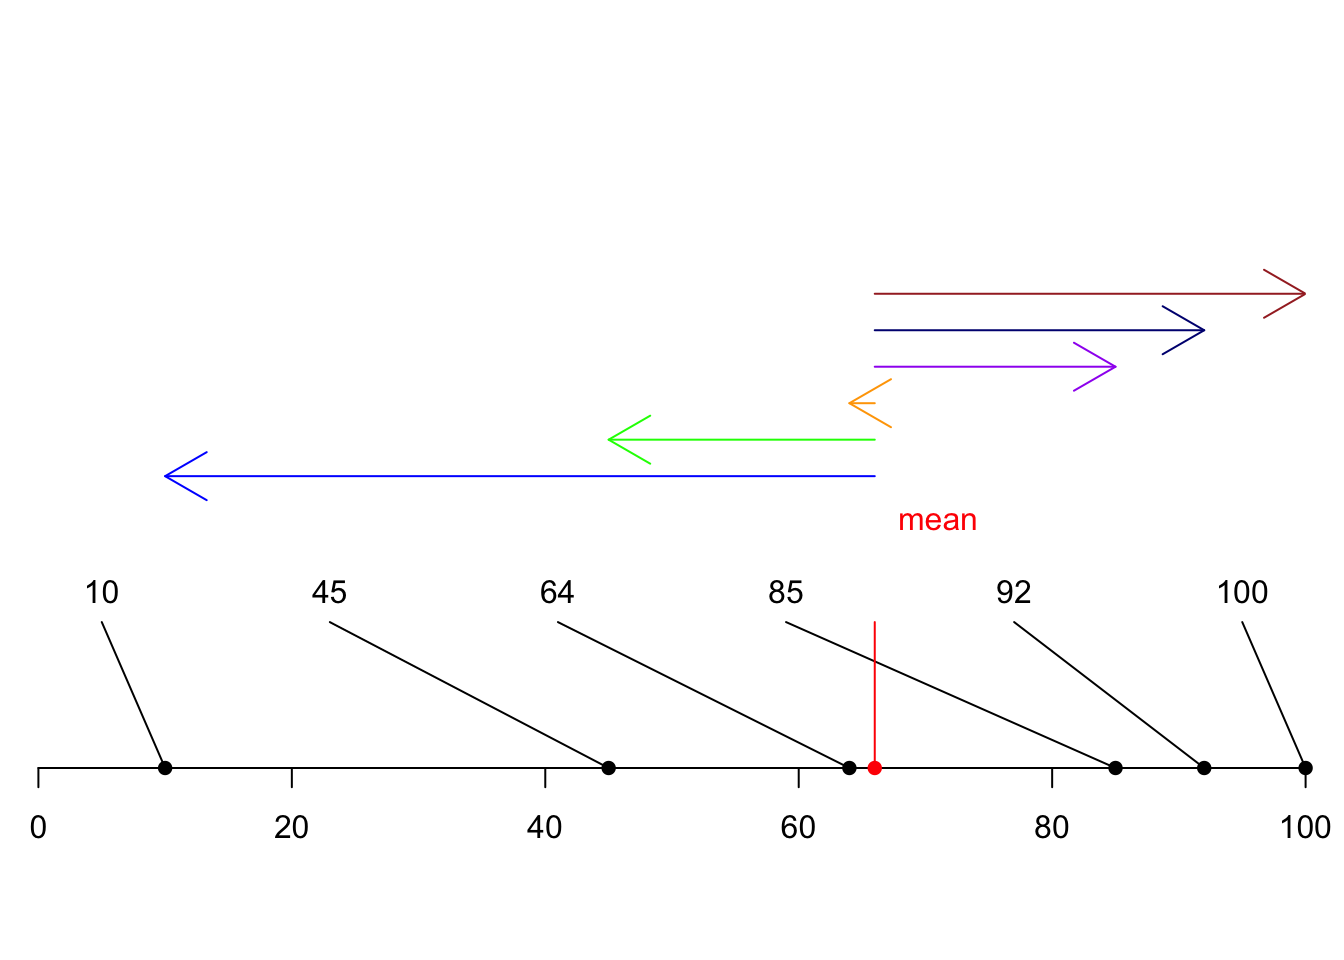
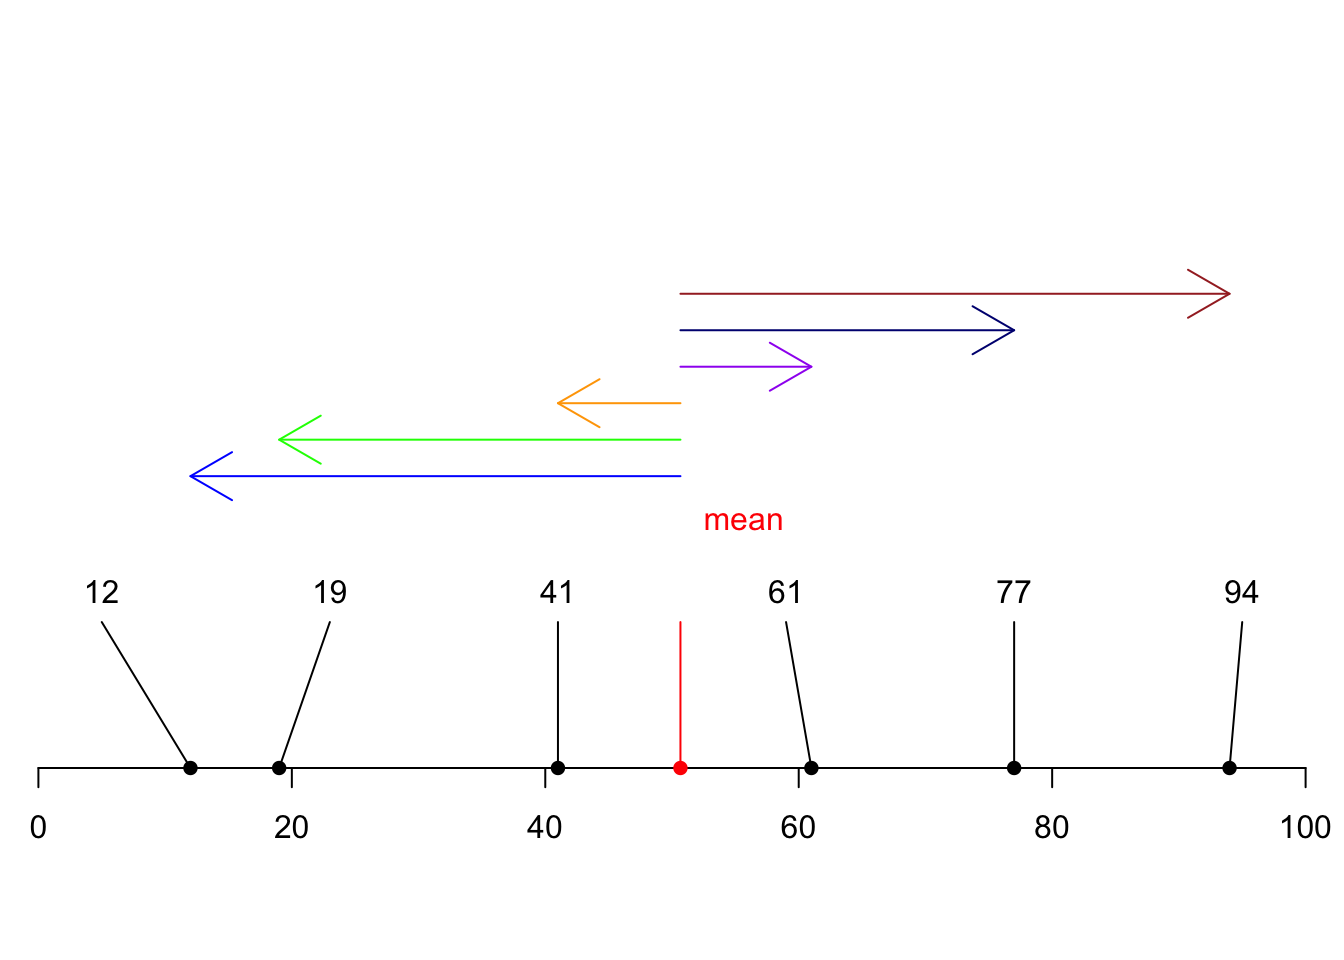
update

diff --git a/docs/index.html b/docs/index.html
@@ -279,36 +279,15 @@ $(document).ready(function () {
 
 </style>
 <div class="row" style="padding-top: 30px;">
-<div id="my-lab-journal" class="section level1 col-sm-6">
-<h1><strong>My Lab Journal</strong></h1>
-<p>This is a template example for lab journaling. Students in Matt
-Crump’s Human Cognition and Performance Lab will use this template to
-learn R, and other things. Students can replace this text with more fun
-things. People not in my lab can use this too.</p>
-<div id="how-to-use" class="section level2">
-<h2>How to use</h2>
-<ol style="list-style-type: decimal">
-<li><p>fork the repo for this website and follow instructions on read me
-to get set up. <a
-href="https://github.com/CrumpLab/LabJournalWebsite">https://github.com/CrumpLab/LabJournalWebsite</a></p></li>
-<li><p>Blog/journal what you are doing in R, by editing the Journal.Rmd.
-See the <a
-href="https://crumplab.github.io/LabJournalWebsite/Journal.html">Journal
-page</a> for an example of what to do to get started learning
-R.</p></li>
-<li><p>See the <a
-href="https://crumplab.github.io/LabJournalWebsite/Links.html">links
-page</a> for lots of helpful links on learning R.</p></li>
-<li><p>Change everything to make it your own.</p></li>
-</ol>
-</div>
-</div>
+<div id="what-is-standard-deviation" class="section level1 col-sm-6">
+<h1><strong>What is Standard Deviation?</strong></h1>
 <div id="crump-lab-human-cognition-and-performance"
-class="section level3 col-sm-6">
+class="section level3">
 <h3><a href="https://crumplab.github.io">Crump Lab: Human Cognition and
 Performance</a></h3>
 <p><a href = "https://crumplab.github.io"> <img src="images/logo.png" />
 </a></p>
+</div>
 </div>
 <pre class="r"><code>## define plot data
 xlim &lt;- c(0,100);
